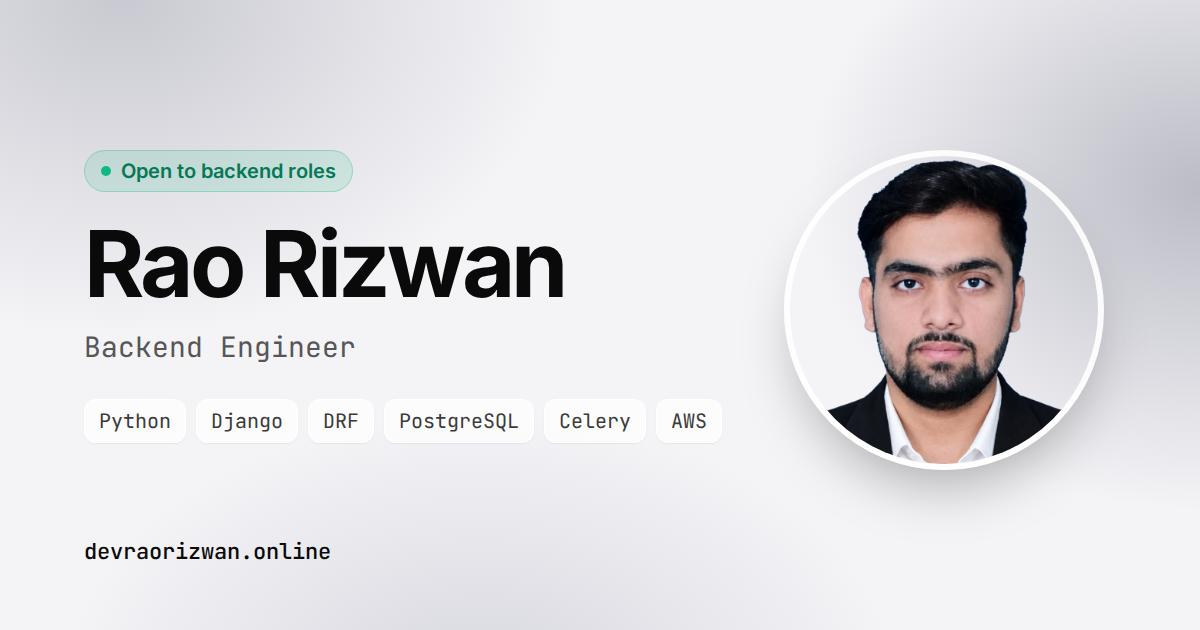
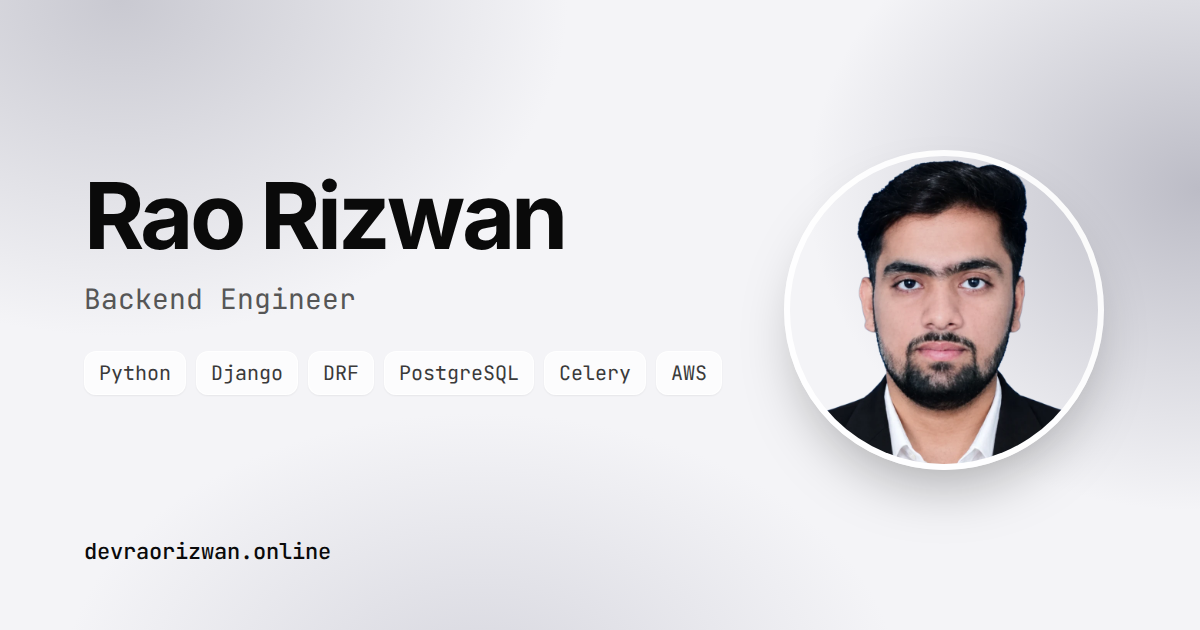
added looking for job

diff --git a/src/components/AvailabilityToast.jsx b/src/components/AvailabilityToast.jsx
@@ -1,0 +1,96 @@
+import { useEffect, useState } from 'react'
+import { profile } from '../content'
+import { IconMail, IconX, gmailWebUrl, openGmail } from './ui'
+
+const DELAY = 3500
+const KEY = 'availability-toast-dismissed'
+
+// Browser storage can be missing or blocked, so every access is guarded.
+const wasDismissed = () => {
+  try {
+    return sessionStorage.getItem(KEY) === '1'
+  } catch {
+    return false
+  }
+}
+const rememberDismissed = () => {
+  try {
+    sessionStorage.setItem(KEY, '1')
+  } catch {
+    // Nothing to do: the toast just comes back on the next visit.
+  }
+}
+
+// A small note that slides in after a few seconds and steps aside while the
+// Contact section, which says the same thing, is on screen.
+export default function AvailabilityToast() {
+  const [ready, setReady] = useState(false)
+  const [dismissed, setDismissed] = useState(false)
+  const [contactInView, setContactInView] = useState(false)
+
+  useEffect(() => {
+    if (!profile.openTo || wasDismissed()) return
+    const timer = setTimeout(() => setReady(true), DELAY)
+
+    const contact = document.getElementById('contact')
+    let observer
+    if (contact && typeof IntersectionObserver !== 'undefined') {
+      observer = new IntersectionObserver(([entry]) => setContactInView(entry.isIntersecting), { threshold: 0.2 })
+      observer.observe(contact)
+    }
+    return () => {
+      clearTimeout(timer)
+      observer?.disconnect()
+    }
+  }, [])
+
+  const dismiss = () => {
+    setDismissed(true)
+    rememberDismissed()
+  }
+
+  const visible = ready && !dismissed && !contactInView
+
+  return (
+    <div
+      role="status"
+      aria-hidden={!visible}
+      className={`no-print fixed inset-x-3 bottom-3 z-50 transition duration-500 ease-out sm:inset-x-auto sm:bottom-5 sm:right-5 sm:w-[340px] ${
+        visible ? 'translate-y-0 opacity-100' : 'pointer-events-none translate-y-4 opacity-0'
+      }`}
+    >
+      <div className="flex items-start gap-3 rounded-2xl border border-white/80 bg-white/95 p-4 shadow-[0_1px_2px_rgba(10,10,10,0.05),0_18px_40px_-12px_rgba(10,10,10,0.3)] backdrop-blur-xl">
+        <span aria-hidden className="relative mt-1.5 flex h-2 w-2 shrink-0">
+          <span className="absolute inline-flex h-full w-full animate-ping rounded-full bg-[#10b981] opacity-70" />
+          <span className="relative inline-flex h-2 w-2 rounded-full bg-[#10b981]" />
+        </span>
+
+        <div className="min-w-0 flex-1">
+          <p className="text-sm font-semibold text-ink">{profile.openTo}</p>
+          <p className="mt-0.5 text-[13px] leading-snug text-muted">{profile.availability}</p>
+          <a
+            href={gmailWebUrl(profile.email)}
+            onClick={(e) => openGmail(e, profile.email)}
+            target="_blank"
+            rel="noreferrer noopener"
+            tabIndex={visible ? 0 : -1}
+            className="mt-3 inline-flex items-center gap-2 rounded-xl bg-accent px-3.5 py-2 text-[13px] font-medium text-white transition-colors hover:bg-accent-dark"
+          >
+            <IconMail width={14} height={14} />
+            Email me
+          </a>
+        </div>
+
+        <button
+          type="button"
+          onClick={dismiss}
+          aria-label="Dismiss"
+          tabIndex={visible ? 0 : -1}
+          className="-m-1.5 flex h-8 w-8 shrink-0 items-center justify-center rounded-lg text-faint transition-colors hover:bg-white/60 hover:text-ink"
+        >
+          <IconX width={15} height={15} />
+        </button>
+      </div>
+    </div>
+  )
+}

diff --git a/src/components/Sections.jsx b/src/components/Sections.jsx
@@ -124,15 +124,7 @@ export function Hero() {
                   </picture>
 
                   <div className="min-w-0">
-                    <div className="mb-1.5 flex flex-wrap items-center gap-x-3 gap-y-1.5 lg:mb-4">
-                      <p className="eyebrow">{profile.role}</p>
-                      {profile.openTo && (
-                        <span className="inline-flex items-center gap-1.5 rounded-full border border-[#10b981]/30 bg-[#10b981]/10 px-2.5 py-0.5 text-[11px] font-medium text-[#047857]">
-                          <span aria-hidden className="h-1.5 w-1.5 rounded-full bg-[#10b981]" />
-                          {profile.openTo}
-                        </span>
-                      )}
-                    </div>
+                    <p className="eyebrow mb-1.5 lg:mb-4">{profile.role}</p>
                     <h1 className="text-[1.9rem] leading-[0.95] tracking-tight sm:text-[3rem] lg:text-[3.4rem]">
                       {profile.name}
                     </h1>
@@ -492,16 +484,7 @@ export function Contact() {
           />
           <div className="relative grid gap-10 lg:grid-cols-[1.2fr_1fr] lg:items-center lg:gap-14">
             <div>
-              {profile.openTo && (
-                <span className="inline-flex items-center gap-2 rounded-full border border-[#10b981]/30 bg-[#10b981]/10 px-3 py-1 text-[12px] font-medium text-[#6ee7b7]">
-                  <span aria-hidden className="relative flex h-1.5 w-1.5">
-                    <span className="absolute inline-flex h-full w-full animate-ping rounded-full bg-[#10b981] opacity-70" />
-                    <span className="relative inline-flex h-1.5 w-1.5 rounded-full bg-[#10b981]" />
-                  </span>
-                  {profile.openTo}
-                </span>
-              )}
-              <h3 className="mt-5 text-[1.9rem] font-semibold leading-[1.05] tracking-tight text-white sm:text-[2.6rem]">
+              <h3 className="text-[1.9rem] font-semibold leading-[1.05] tracking-tight text-white sm:text-[2.6rem]">
                 Need a backend that holds up under load?
               </h3>
               <p className="mt-4 max-w-md text-[15px] leading-relaxed text-white/65">

diff --git a/src/App.jsx b/src/App.jsx
@@ -2,6 +2,7 @@ import { Analytics } from '@vercel/analytics/react'
 import { Hero, Projects, Experience, Tools, Contact } from './components/Sections'
 import Header from './components/Header'
 import Activity from './components/Activity'
+import AvailabilityToast from './components/AvailabilityToast'
 
 export default function App() {
   return (
@@ -28,6 +29,7 @@ export default function App() {
         <Contact />
       </main>
 
+      <AvailabilityToast />
       <Analytics />
     </>
   )

diff --git a/src/components/ui.jsx b/src/components/ui.jsx
@@ -132,6 +132,13 @@ export const IconCheck = (p) => (
   </svg>
 )
 
+export const IconX = (p) => (
+  <svg {...base} {...p}>
+    <path d="M18 6 6 18" />
+    <path d="m6 6 12 12" />
+  </svg>
+)
+
 export const IconLinkedin = (p) => (
   <svg {...base} {...p}>
     <path d="M16 8a6 6 0 0 1 6 6v7h-4v-7a2 2 0 0 0-4 0v7h-4v-7a6 6 0 0 1 6-6z" />

diff --git a/src/content.js b/src/content.js
@@ -18,7 +18,7 @@ export const profile = {
 
   openTo: 'Open to backend roles',
   location: 'Lahore, Pakistan',
-  availability: 'Open to remote, or on site in Lahore',
+  availability: 'Remote, or on site in Lahore',
 
   photo: '/images/rao.webp',
   photoFallback: '/images/rao.png',
